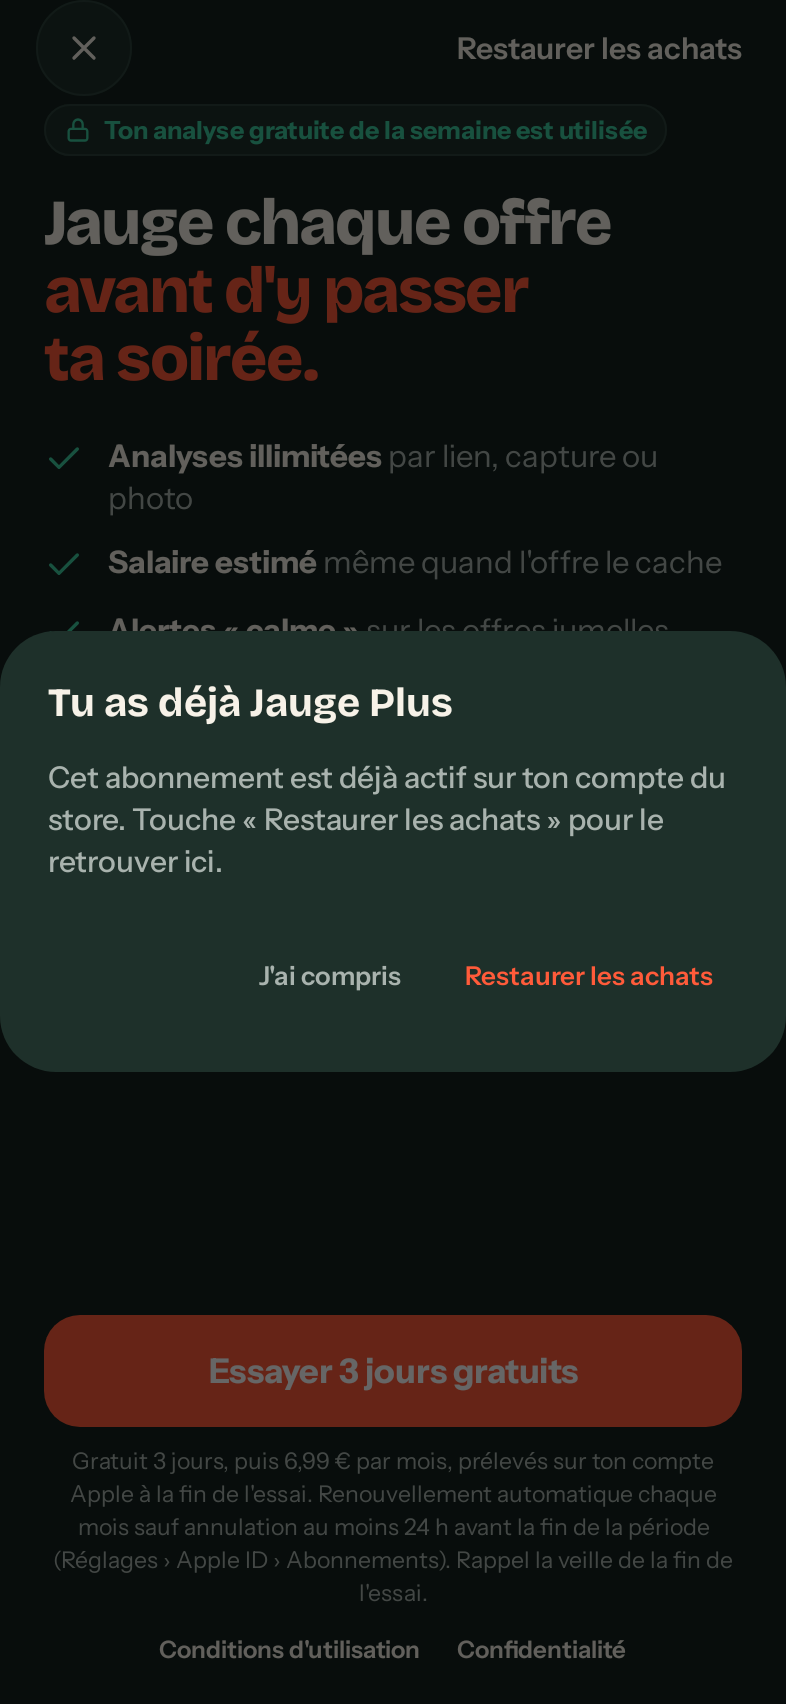
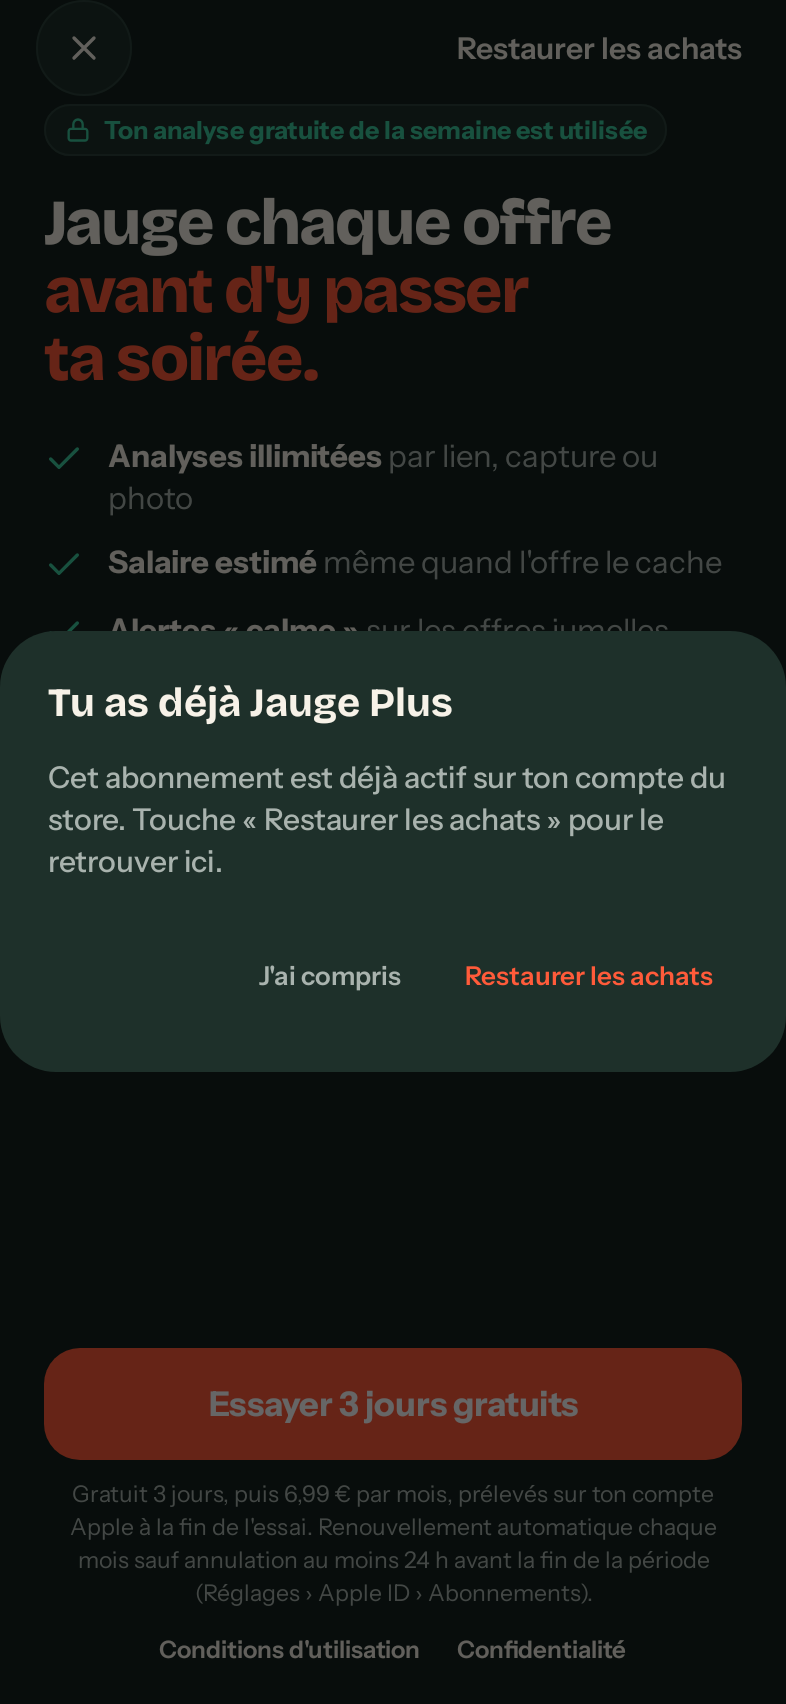
feat: remove the trial reminder promise
Neither Apple nor Google requires a reminder before the end of the free trial, so the app no
longer promises one. The paywall timeline now shows today for 0 EUR, then the monthly price at
the end of the trial. The profile, the success message and the terms of use drop the reminder.
The mandatory terms stay: price, trial length, automatic renewal and cancellation at least
24 hours before in the store settings. Updated screenshots and audit docs.

Changed region(s): [[0.0305, 0.7465, 0.9466, 0.9642]]

diff --git a/docs/web/conditions/index.html b/docs/web/conditions/index.html
@@ -36,7 +36,7 @@ footer { margin-top: 48px; border-top: 1px solid var(--line); padding-top: 16px;
 <p>Sans abonnement, tu bénéficies d&#x27;une analyse complète par semaine. Un essai qui n&#x27;a pas pu être lu (capture illisible) ne compte pas.</p>
 <h2>5. Jauge Plus</h2>
 <p>Jauge Plus débloque les analyses illimitées, les détails, les offres jumelles et les alertes « calme ». C&#x27;est un abonnement mensuel de 6,99 € par mois, toutes taxes comprises (prix indiqué par le store dans ta devise), avec 3 jours d&#x27;essai gratuit pour un premier abonnement.</p>
-<p>Le paiement est fait par l&#x27;App Store ou Google Play. Sauf annulation au moins 24 heures avant la fin de l&#x27;essai ou de la période en cours, l&#x27;abonnement est renouvelé automatiquement chaque mois au même prix. Tu reçois un rappel la veille de la fin de l&#x27;essai.</p>
+<p>Le paiement est fait par l&#x27;App Store ou Google Play. Sauf annulation au moins 24 heures avant la fin de l&#x27;essai ou de la période en cours, l&#x27;abonnement est renouvelé automatiquement chaque mois au même prix.</p>
 <p>Tu gères et annules l&#x27;abonnement dans les réglages de ton compte App Store ou Google Play, ou depuis Profil, Gérer ou annuler l&#x27;abonnement. L&#x27;annulation prend effet à la fin de la période payée. Supprimer l&#x27;app ou ton compte n&#x27;annule pas l&#x27;abonnement.</p>
 <h2>6. Droit de rétractation et remboursements</h2>
 <p>En souscrivant, tu demandes l&#x27;accès immédiat au service et tu reconnais que ton droit de rétractation de 14 jours prend fin dès que le service est pleinement exécuté pour la période en cours, conformément à l&#x27;article L221-28 du Code de la consommation. L&#x27;essai gratuit te permet d&#x27;essayer Jauge Plus sans payer. Les demandes de remboursement sont traitées par Apple ou Google selon leurs règles.</p>

diff --git a/feature/paywall/src/commonMain/kotlin/io/jauge/feature/paywall/paywall/PaywallScreen.kt b/feature/paywall/src/commonMain/kotlin/io/jauge/feature/paywall/paywall/PaywallScreen.kt
@@ -104,7 +104,6 @@ import io.jauge.feature.paywall.resources.paywall_success_title
 import io.jauge.feature.paywall.resources.paywall_success_trial_message
 import io.jauge.feature.paywall.resources.paywall_terms
 import io.jauge.feature.paywall.resources.paywall_timeline_payment_details
-import io.jauge.feature.paywall.resources.paywall_timeline_reminder_details
 import io.jauge.feature.paywall.resources.paywall_timeline_today
 import io.jauge.feature.paywall.resources.paywall_timeline_today_details
 import kotlinx.datetime.LocalDate
@@ -401,7 +400,6 @@ private fun TrialTimelineRow(timeline: TrialTimeline, formattedPrice: String) {
     val colors = JaugeTheme.colors
     val steps = listOf(
         Triple(colors.calm.accent, stringResource(Res.string.paywall_timeline_today), stringResource(Res.string.paywall_timeline_today_details)),
-        Triple(colors.disputed.accent, shortDate(timeline.reminderOn), stringResource(Res.string.paywall_timeline_reminder_details)),
         Triple(colors.textPrimary, shortDate(timeline.firstPaymentOn), stringResource(Res.string.paywall_timeline_payment_details, formattedPrice)),
     )
     Row(Modifier.fillMaxWidth()) {
@@ -567,7 +565,7 @@ private fun BottomArea(state: PaywallUiState, actions: PaywallActions, onPurchas
 
 /**
  * Auto renewal terms required by the App Store and Google Play: price, trial length, when the payment is taken, how
- * to cancel, and the reminder.
+ * to cancel. No reminder is promised before the end of the trial.
  */
 @Composable
 private fun LegalText(offer: SubscriptionOffer, platform: Platform) {

diff --git a/core/domain/src/commonMain/kotlin/io/jauge/core/domain/usecase/AccountUseCases.kt b/core/domain/src/commonMain/kotlin/io/jauge/core/domain/usecase/AccountUseCases.kt
@@ -106,8 +106,8 @@ class GetSubscriptionManagementUrlUseCase(private val repository: SubscriptionRe
 }
 
 /**
- * Computes the trial timeline of the paywall from today's date: reminder the day before the end, first payment at
- * the end of the trial (mockup 08: today 23 Oct, reminder 25 Oct, payment 26 Oct).
+ * Computes the trial timeline of the paywall from today's date: free today, first payment at the end of the trial
+ * (today 23 Oct, payment 26 Oct for a 3 day trial).
  *
  * @param clock source of the current time.
  * @param timeZone time zone of the user.
@@ -134,8 +134,7 @@ class ComputeTrialTimelineUseCase(
         fun timelineFrom(startsOn: LocalDate, trialDays: Int): TrialTimeline {
             val days = trialDays.coerceAtLeast(1)
             val firstPayment = startsOn.plus(DatePeriod(days = days))
-            val reminder = if (days > 1) startsOn.plus(DatePeriod(days = days - 1)) else startsOn
-            return TrialTimeline(startsOn = startsOn, reminderOn = reminder, firstPaymentOn = firstPayment)
+            return TrialTimeline(startsOn = startsOn, firstPaymentOn = firstPayment)
         }
     }
 }

diff --git a/feature/paywall/src/commonMain/kotlin/io/jauge/feature/paywall/paywall/PaywallViewModel.kt b/feature/paywall/src/commonMain/kotlin/io/jauge/feature/paywall/paywall/PaywallViewModel.kt
@@ -39,7 +39,7 @@ enum class PaywallCompletion {
  * Observed state of the paywall (mockup 08, single monthly offer).
  *
  * @property offer the monthly offer with its store price, loaded from the store.
- * @property timeline trial timeline (today, reminder, first payment), null when the user gets no trial.
+ * @property timeline trial timeline (today for free, then the first payment), null when the user gets no trial.
  * @property subscription current subscription, null until known.
  * @property platform store of the phone, for the legal text.
  * @property isPurchasing true while the store purchase sheet is open.

diff --git a/core/domain/src/commonMain/kotlin/io/jauge/core/domain/model/Account.kt b/core/domain/src/commonMain/kotlin/io/jauge/core/domain/model/Account.kt
@@ -111,14 +111,12 @@ data class SubscriptionOffer(
 }
 
 /**
- * Timeline of the free trial shown on the paywall: today, the reminder, the first payment.
+ * Timeline of the free trial shown on the paywall: today for free, then the first payment at the end of the trial.
  *
  * @property startsOn first day of the trial.
- * @property reminderOn day of the reminder (the day before the end).
  * @property firstPaymentOn day of the first payment if the user keeps Jauge Plus.
  */
 data class TrialTimeline(
     val startsOn: LocalDate,
-    val reminderOn: LocalDate,
     val firstPaymentOn: LocalDate,
 )

diff --git a/feature/paywall/src/commonTest/kotlin/io/jauge/feature/paywall/PaywallViewModelTest.kt b/feature/paywall/src/commonTest/kotlin/io/jauge/feature/paywall/PaywallViewModelTest.kt
@@ -90,7 +90,6 @@ class PaywallViewModelTest {
         advanceUntilIdle()
         val state = viewModel.uiState.value
         assertEquals("6,99 €", state.offer.content?.formattedPrice)
-        assertEquals(LocalDate(2026, 10, 25), state.timeline?.reminderOn)
         assertEquals(LocalDate(2026, 10, 26), state.timeline?.firstPaymentOn)
         assertTrue(state.canPurchase)
         assertFalse(state.isAlreadyPlus)

diff --git a/core/domain/src/commonMain/kotlin/io/jauge/core/domain/model/Notifications.kt b/core/domain/src/commonMain/kotlin/io/jauge/core/domain/model/Notifications.kt
@@ -7,7 +7,7 @@ enum class NotificationKind {
     /** A twin offer became calm (mockups 06 and 12). */
     CALM_ALERT,
 
-    /** The free trial ends tomorrow (mockup 08: "On te rappelle"). */
+    /** Kind reserved by the server for a trial notice; the app promises no reminder before the end of the trial. */
     TRIAL_REMINDER,
 
     /** Any other message (kept for kinds added later on the server). */

diff --git a/core/domain/src/commonTest/kotlin/io/jauge/core/domain/UseCaseTest.kt b/core/domain/src/commonTest/kotlin/io/jauge/core/domain/UseCaseTest.kt
@@ -79,7 +79,6 @@ class UseCaseTest {
     @Test
     fun trialTimelineMatchesThePaywall() {
         val timeline = ComputeTrialTimelineUseCase.timelineFrom(LocalDate(2026, 10, 23), trialDays = 3)
-        assertEquals(LocalDate(2026, 10, 25), timeline.reminderOn)
         assertEquals(LocalDate(2026, 10, 26), timeline.firstPaymentOn)
     }
 

diff --git a/docs/audit/a-faire-par-toi.md b/docs/audit/a-faire-par-toi.md
@@ -63,51 +63,49 @@ corrigés. Voici ce qui reste, dans l'ordre.
 3. **Me dire qui lit les captures** : si les images partent chez un fournisseur d'IA (OpenAI, Anthropic, Google...),
    Apple exige de le nommer et de demander l'accord de l'utilisateur avant le premier envoi. Donne-moi le nom :
    j'ajoute l'écran d'accord et je complète la politique de confidentialité.
-4. **Le rappel la veille de la fin de l'essai** : le paywall le promet. Soit on le fait (le serveur reçoit l'essai
-   depuis RevenueCat et envoie une notification la veille), soit on retire la phrase. Dis-moi ton choix.
-5. **Côté serveur, la suppression du compte** doit aussi effacer le client RevenueCat et révoquer la connexion Apple
+4. **Côté serveur, la suppression du compte** doit aussi effacer le client RevenueCat et révoquer la connexion Apple
    (c'est écrit dans `docs/api.md`, ligne `DELETE /v1/account`).
 
 ### Le site jauge.io
 
-6. Publier le dossier `docs/web` sur `https://jauge.io` (HTTPS, sans redirection) :
+5. Publier le dossier `docs/web` sur `https://jauge.io` (HTTPS, sans redirection) :
    - `/confidentialite/`, `/conditions/`, `/mentions-legales/` : les liens à donner aux stores ;
    - `/supprimer-mon-compte/` : le lien de suppression demandé par Google ;
    - `/.well-known/assetlinks.json` : remplace `REPLACE_WITH_THE_SHA256_FINGERPRINT...` par l'empreinte SHA-256 de la
      clé de signature (Play Console › Intégrité de l'app › Signature de l'app) ;
    - `/.well-known/apple-app-site-association` : remplace `REPLACE_WITH_TEAM_ID` par ton Team ID Apple.
-7. Créer les boîtes `contact@jauge.io` et `privacy@jauge.io` (elles sont écrites dans l'app) et répondre aux demandes
+6. Créer les boîtes `contact@jauge.io` et `privacy@jauge.io` (elles sont écrites dans l'app) et répondre aux demandes
    de suppression sous 30 jours.
 
 ### Comptes et abonnement
 
-8. **Compte Google Play Console** (25 $ une fois) et **Apple Developer Program** (99 $ par an), au nom de la société.
-9. **Abonnement** `jauge_plus_monthly` à 6,99 € par mois avec 3 jours d'essai, dans la Play Console (offre de base
+7. **Compte Google Play Console** (25 $ une fois) et **Apple Developer Program** (99 $ par an), à ton nom (entrepreneur individuel).
+8. **Abonnement** `jauge_plus_monthly` à 6,99 € par mois avec 3 jours d'essai, dans la Play Console (offre de base
    `monthly`) et dans App Store Connect (groupe « Jauge Plus »), puis dans RevenueCat (produit, droit `plus`, offre
    `default`). Sur l'émulateur, le paywall affiche « Achats indisponibles » parce que le Test Store RevenueCat n'a
    encore **aucun produit** : ajoute le produit de test (voir `docs/revenuecat.md`) et je testerai l'achat et l'achat
    annulé. Signe aussi l'accord « Paid Apps » chez Apple et le profil de paiement chez Google.
-10. **Supabase › Authentication › SMTP** : branche ton propre service d'e-mail (Brevo, Resend...). Le service
+9. **Supabase › Authentication › SMTP** : branche ton propre service d'e-mail (Brevo, Resend...). Le service
     d'e-mail fourni par Supabase n'envoie que quelques e-mails par heure et refuse les adresses de test : pendant
     l'essai, « Recevoir un lien » a répondu « On souffle un instant ».
-11. **Apple** : sur l'identifiant `io.jauge.app`, active « Push Notifications », « Associated Domains » et « Sign in
+10. **Apple** : sur l'identifiant `io.jauge.app`, active « Push Notifications », « Associated Domains » et « Sign in
     with Apple » ; crée la clé APNs `.p8`. Dans Xcode, garde la cible en « iPhone » seulement.
 
 ### Les fiches des stores
 
-12. **Google Play** : remplis le formulaire « Sécurité des données » avec le tableau de `google-play.md` (section 4),
+11. **Google Play** : remplis le formulaire « Sécurité des données » avec le tableau de `google-play.md` (section 4),
     le questionnaire de classification (section 7), public cible « 18 ans et plus » seulement, « pas de
     publicité », « accès à l'app : aucun compte nécessaire », l'URL de suppression et l'URL de la politique.
-13. **App Store** : remplis « Confidentialité de l'app » avec le tableau de `app-store.md` (section 6), réponds
+12. **App Store** : remplis « Confidentialité de l'app » avec le tableau de `app-store.md` (section 6), réponds
     « Non » au suivi, mets l'URL de la politique et un lien vers les conditions dans la description, ajoute les notes
     pour l'examinateur (section 9).
-14. **Captures de store finales** : prends-les sur la version release (sans le bandeau orange « Mode sans API »),
+13. **Captures de store finales** : prends-les sur la version release (sans le bandeau orange « Mode sans API »),
     avec de vraies analyses : Google 1080 × 1920 au moins, Apple 1320 × 2868 (iPhone 6,9 pouces). Les captures de
     `docs/screenshots/device/` servent de contrôle, pas de fiche.
-15. **Textes des fiches** : nom « Jauge », sous-titre (30 caractères, par exemple « Vois la foule avant de
+14. **Textes des fiches** : nom « Jauge », sous-titre (30 caractères, par exemple « Vois la foule avant de
     postuler »), description, mots-clés, catégorie (Productivité ou Entreprise), e-mail et site de contact.
 
 ### À décider (facultatif)
 
-16. Deux couleurs de la marque sont un peu pâles pour les personnes qui voient mal (gris secondaire et texte blanc sur
+15. Deux couleurs de la marque sont un peu pâles pour les personnes qui voient mal (gris secondaire et texte blanc sur
     le bouton corail, détails dans `app-store.md` section 8). Je peux foncer légèrement le gris si tu es d'accord.

diff --git a/docs/audit/google-play.md b/docs/audit/google-play.md
@@ -112,13 +112,13 @@ réponse « Partage : Non » reste juste, mais il doit être nommé dans la poli
 | Règle Google Play | État | Détail |
 | --- | --- | --- |
 | Achat par Google Play Billing | OK | `purchases-kmp` 3.15 (Billing Library récente incluse). Aucun autre moyen de paiement. |
-| Prix, période et essai affichés avant l'achat | OK | Prix lu dans le store (`product.price.formatted`), « 3 jours gratuits, puis 6,99 €/mois », frise « Aujourd'hui / rappel la veille / premier prélèvement ». |
+| Prix, période et essai affichés avant l'achat | OK | Prix lu dans le store (`product.price.formatted`), « 3 jours gratuits, puis 6,99 €/mois », frise « Aujourd'hui, 0 € / date de fin d'essai, puis 6,99 €/mois ». |
 | Renouvellement automatique et annulation expliqués | OK | Texte légal sous le bouton : renouvellement mensuel, annulation 24 h avant, chemin « Google Play › Paiements et abonnements ». |
 | Gérer / annuler depuis l'app | OK | « Gérer ou annuler l'abonnement » (profil) et « Gérer mon abonnement » (paywall, suppression du compte) ouvrent la page d'abonnement Google Play. |
 | Restaurer les achats | OK | Paywall et profil ; message clair si rien à restaurer (vérifié). |
 | Achat annulé | OK | Silencieux (aucun message d'erreur), géré par `BillingFailure.Cancelled` et testé dans `core:billing`. Pas testable sur l'émulateur faute de produit dans RevenueCat. |
 | Achats indisponibles (pas de clé, pas de produit) | OK | Encadré « Achats indisponibles », bouton désactivé, aucune erreur technique. |
-| Rappel avant la fin de l'essai | À toi (serveur) | Le paywall promet « Rappel la veille de la fin de l'essai » : il faut le faire vraiment (webhook RevenueCat `INITIAL_PURCHASE` en essai, puis notification la veille par l'Edge Function `send-notification`), ou retirer la phrase. Une promesse non tenue est un motif de refus. |
+| Rappel avant la fin de l'essai | **Retiré** | Pas exigé par Google : décision du 24/10/2026, l'app ne promet plus de rappel (paywall, profil, conditions). Restent le prix, la durée de l'essai, le renouvellement automatique et l'annulation 24 h avant. |
 | Produit et offre configurés | À toi | Créer l'abonnement `jauge_plus_monthly` (6,99 €, mensuel, essai 3 jours pour les nouveaux abonnés) dans la Play Console et dans RevenueCat (aujourd'hui le Test Store RevenueCat n'a aucun produit : l'émulateur affiche « Achats indisponibles »). |
 
 ## 6. Compte et suppression

diff --git a/docs/audit/app-store.md b/docs/audit/app-store.md
@@ -22,7 +22,7 @@ Légende : **OK**, **Corrigé** (corrigé pendant l'audit), **À toi** (voir [a-
 | Liens obligatoires dans l'app : conditions (EULA) et confidentialité | OK | Sous le bouton du paywall et dans le profil. |
 | Gérer / annuler | OK | « Gérer ou annuler l'abonnement » ouvre la page Abonnements de l'App Store (`managementURL`). |
 | Liens obligatoires dans la fiche App Store | À toi | Mettre l'URL de la politique (`https://jauge.io/confidentialite/`) dans App Store Connect et un lien vers les conditions (`https://jauge.io/conditions/`) à la fin de la description (ou le champ « Licence d'utilisation »). |
-| Rappel avant la fin de l'essai | À toi (serveur) | Promis dans le texte légal du paywall : à faire vraiment (webhook RevenueCat + notification la veille) ou retirer la phrase. |
+| Rappel avant la fin de l'essai | **Retiré** | Pas exigé par Apple : décision du 24/10/2026, l'app ne promet plus de rappel (paywall, profil, conditions). Restent le prix, la durée de l'essai, le renouvellement automatique et l'annulation 24 h avant. |
 | Produit dans App Store Connect | À toi | Abonnement `jauge_plus_monthly`, groupe « Jauge Plus », 1 mois, 6,99 €, offre de lancement « essai gratuit 3 jours » ; capture du paywall pour l'examen de l'achat ; accord « Paid Apps » signé. |
 
 ## 2. Données et vie privée (5.1.1, 5.1.2)

diff --git a/docs/revenuecat.md b/docs/revenuecat.md
@@ -97,7 +97,7 @@ app still starts: purchases are disabled cleanly and the paywall says "Achats in
 
 The paywall shows, next to the button: the name and length of the subscription (monthly), the price per month after
 the trial, the trial length, when the payment is taken, the automatic renewal, how and when to cancel (24 h before
-the end of the period, in the store settings), the reminder before the end of the trial, and links to the terms of use
+the end of the period, in the store settings), and links to the terms of use
 and the privacy policy. The App Store also needs these two links in the app description (or the standard Apple EULA).
 
 ## 7. Testing
